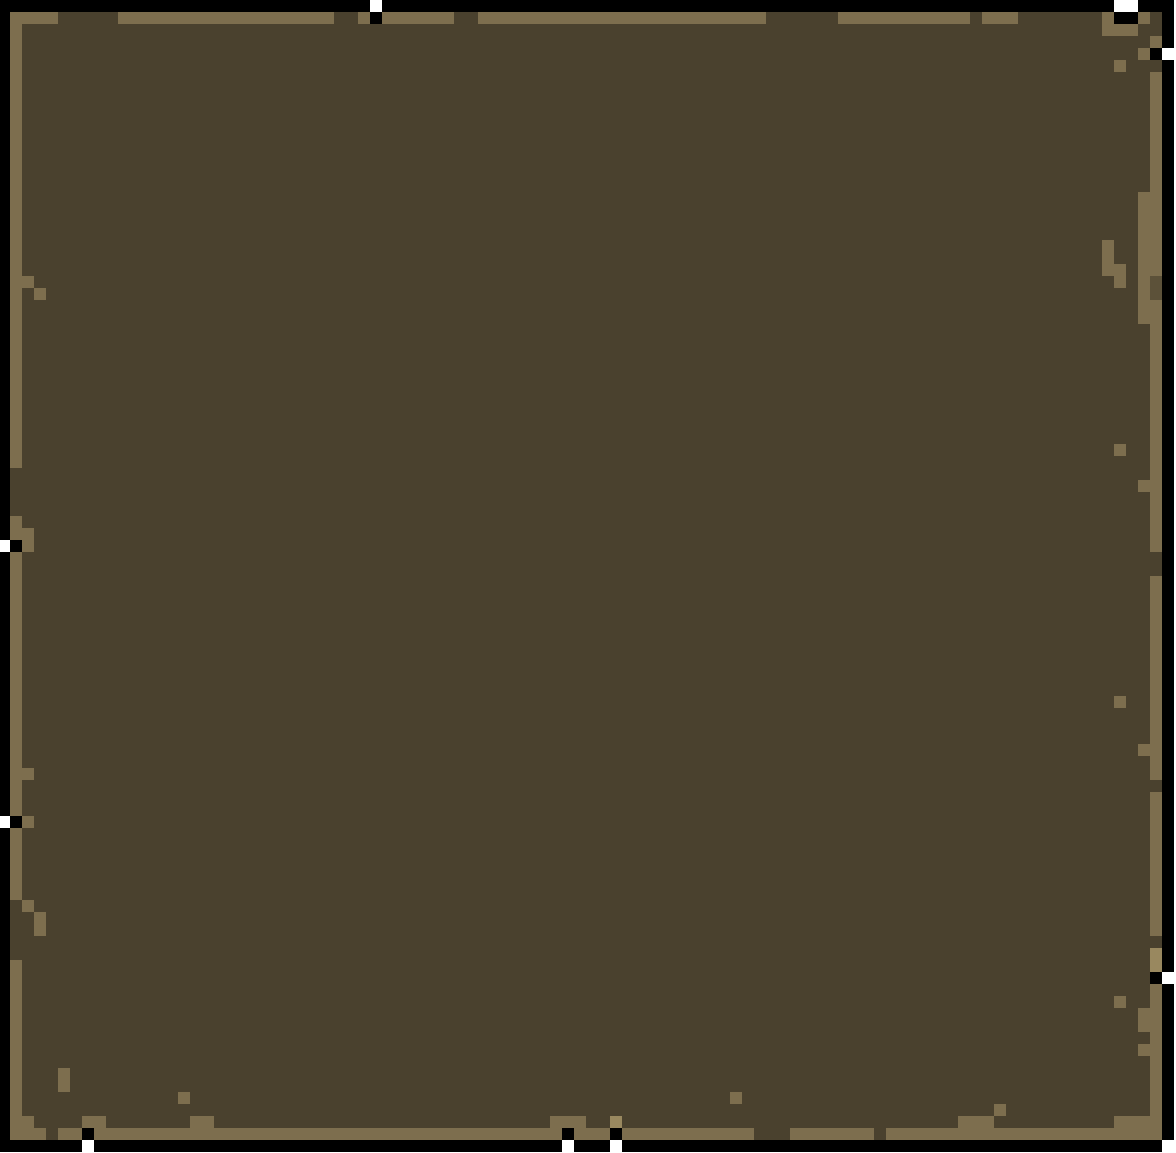
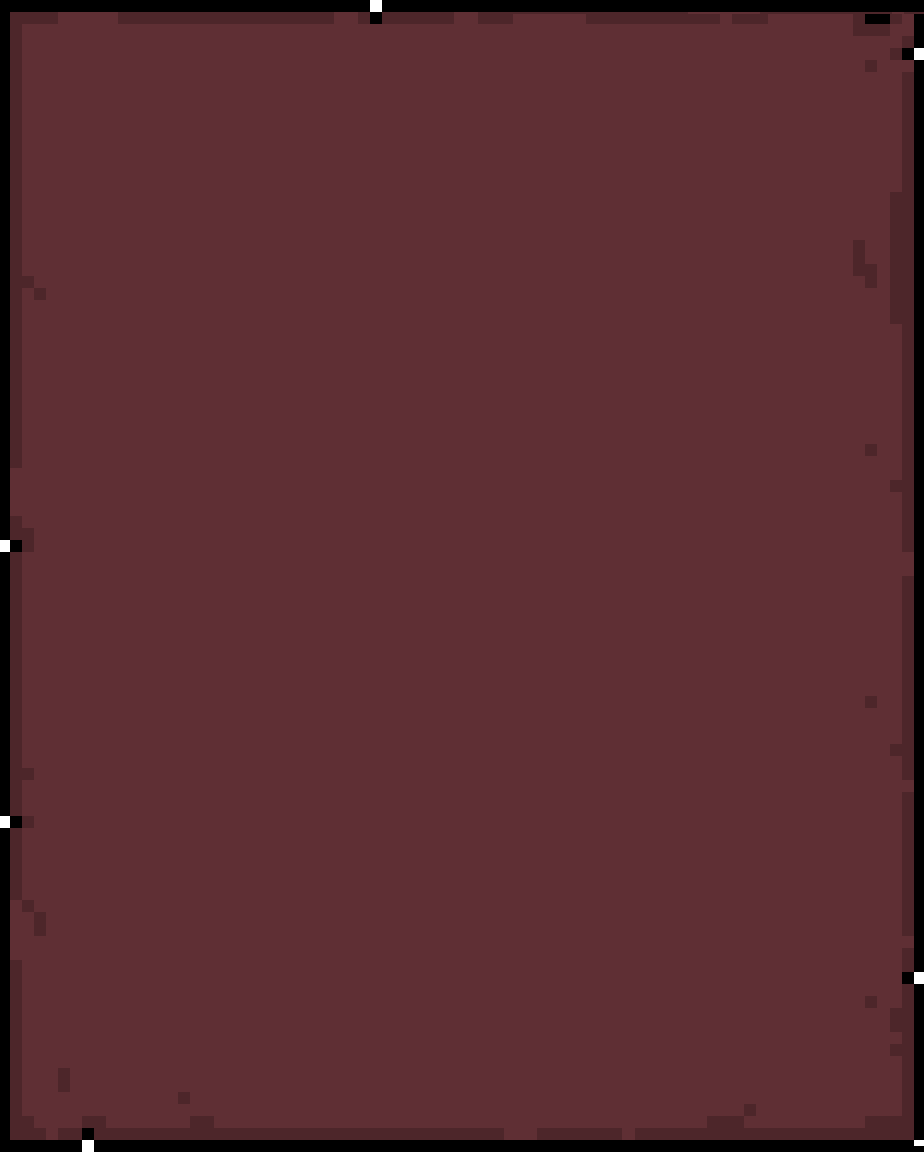
hihiha(toltolofasz)

Changed region(s): [[0.0, 0.0, 1.0, 0.9991], [0.0909, 0.0, 0.8788, 0.0312], [0.0, 0.0, 0.0606, 0.4059]]

diff --git a/login.html b/login.html
@@ -3,7 +3,11 @@
 <head>
 <meta charset="UTF-8">
 <meta name="viewport" content="width=device-width, initial-scale=1.0">
-<title>Sötét Fantasy Login</title>
+<link rel="stylesheet" href="https://cdn.jsdelivr.net/npm/bootstrap@5.3.2/dist/css/bootstrap-grid.min.css">
+<link rel="preconnect" href="https://fonts.googleapis.com">
+<link rel="preconnect" href="https://fonts.gstatic.com" crossorigin>
+<link href="https://fonts.googleapis.com/css2?family=Jacquard+12&family=Jacquard+24&display=swap" rel="stylesheet">
+<title>Az Elfeledett Oldalak</title>
 
 <!-- Ékezetbarát pixel font -->
 <link href="https://fonts.googleapis.com/css2?family=VT323&display=swap" rel="stylesheet">
@@ -20,24 +24,31 @@
         font-family: "VT323", monospace;
         image-rendering: pixelated;
         color: #e0d0c0;
+        flex-direction: column;
+    }
+    .egesz{
+        display: flex;
+        flex-direction: row;
+        align-items: center;
+    }
+
+    .konyvkep{
+       
     }
 
     .container {
         background: #1a1a1a;
         padding: 30px;
-        border: 4px solid #8A6E3E;  /* alap keret sötétebb arany */
         text-align: center;
-        width: 380px;
-        box-shadow:
-            0px 0px 0px 4px #000,
-            0px 0px 0px 8px #8A6E3E,
-            0px 0px 0px 12px #000,
-            0px 0px 20px #1a0000 inset;
+        width: 335px;
+        height: 433px;
+        background-image: url(pictures/83699ac3965fc80.png);
+        background-size: cover;
     }
 
     h2 {
         font-size: 26px;
-        color: #C69654; /* címsor világos arany */
+        color: #c6626d; /* címsor világos arany */
         margin-bottom: 25px;
         text-shadow: 2px 2px #000;
     }
@@ -46,9 +57,9 @@
         width: 90%;
         padding: 12px;
         margin: 10px 0;
-        border: 3px solid #8A6E3E; /* alap keret */
+        border: 3px solid #462226; /* alap keret */
         background: #000;
-        color: #cfcfcf;
+        color: #c6626d;
         font-family: "VT323", monospace;
         font-size: 22px;
         outline: none;
@@ -56,8 +67,8 @@
     }
 
     input:focus {
-        border-color: #C69654; /* fókusz világos arany */
-        color: #fff;
+        border-color: #5F2F34; /* fókusz világos arany */
+        color: #c6626d;
     }
 
     button {
@@ -67,15 +78,15 @@
         font-family: "VT323", monospace;
         font-size: 24px;
         cursor: pointer;
-        border: 3px solid #8A6E3E;
-        background-color: #8A6E3E; /* alap sötétebb arany */
+        border: 3px solid #5F2F34;
+        background-color: #5F2F34; /* alap sötétebb arany */
         color: #000;
         transition: 0.15s;
     }
 
     button:hover {
-        background-color: #C69654; /* hover világos arany */
-        border-color: #C69654;
+        background-color: #462226; /* hover világos arany */
+        border-color: #462226;
         color: #000;
     }
 
@@ -83,60 +94,126 @@
         margin-top: 20px;
         display: block;
         cursor: pointer;
-        color: #C69654;
+        color: #190c0d;
         font-size: 20px;
-        text-shadow: 1px 1px #000;
+        font-size: 25px;
     }
 
     .toggle:hover {
-        color: #e3b97c; /* hover világosabb */
+        color: #c6626d; /* hover világosabb */
     }
+
+
 
 </style>
 </head>
 
 <body>
+    
 
-<div class="container">
-    <h2 id="form-title">LÉPJ BE A LABIRINTUSBA</h2>
+    <div class="egesz">
+        <div class="konyvkep">
+            <img src="pictures/csukott könyv vegleges.png" alt="" style="width: 550px;">
+        </div>
 
-    <input id="username" type="text" placeholder="Felhasználónév">
-    <input id="password" type="password" placeholder="Jelszó">
+        <div class="container">
+            <h2 id="form-title">BEJELENTKEZÉS</h2>
 
-    <button id="action-btn">Belépés</button>
+            <input id="username" type="text" placeholder="Felhasználónév">
+            <input id="password" type="password" placeholder="Jelszó">
+            <input id="email" type="email" placeholder="Email cím" style="display:none;">
 
-    <span class="toggle" id="toggle-mode">Fiók létrehozása</span>
-</div>
+            <button id="action-btn">Belépés</button>
+
+            <span class="toggle" id="toggle-mode">Fiók létrehozása</span>
+        </div>
+
+    </div>
 
 <script>
 let isSignup = false;
 
 document.getElementById("toggle-mode").onclick = () => {
     isSignup = !isSignup;
+
     document.getElementById("form-title").textContent =
-        isSignup ? "ÚJ LÉLEK KOVÁCSA" : "LÉPJ BE A LABIRINTUSBA";
+        isSignup ? "REGISZTRÁCIÓ" : "LÉPJ BE A LABIRINTUSBA";
+
     document.getElementById("action-btn").textContent =
         isSignup ? "Regisztráció" : "Belépés";
+
     document.getElementById("toggle-mode").textContent =
         isSignup ? "Már van fiókod? Belépés" : "Fiók létrehozása";
+
+    document.getElementById("email").style.display =
+        isSignup ? "block" : "none";
 };
 
 document.getElementById("action-btn").onclick = () => {
     const user = document.getElementById("username").value.trim();
     const pass = document.getElementById("password").value.trim();
+    const email = document.getElementById("email").value.trim();
 
-    if (!user || !pass) {
+    if (!user || !pass || (isSignup && !email)) {
         alert("Minden mezőt ki kell töltened!");
         return;
     }
 
+    function showBookSelector() {
+    document.querySelector(".container").innerHTML = `
+        <h2>VÁLASSZ KRÓNIKÁT</h2>
+
+        <select id="bookSelect" style="
+            width:90%;
+            padding:12px;
+            font-size:22px;
+            background:#000;
+            color:#c6626d;
+            border:3px solid #462226;
+            font-family:'VT323', monospace;
+            box-shadow:2px 2px #000;
+        ">
+            <option value="">-- Válassz könyvet --</option>
+            <option value="itelet">Az Ítélet Labirintusa</option>
+            <option value="arnyak">Az Árnyak Ösvénye</option>
+            <option value="vegzet">A Végzet Lapjai</option>
+        </select>
+
+        <button id="startGameBtn" style="margin-top:25px;">
+            Játék kezdete
+        </button>
+    `;
+
+    document.getElementById("startGameBtn").onclick = () => {
+        const selected = document.getElementById("bookSelect").value;
+
+        if (!selected) {
+            alert("Válassz egy krónikát!");
+            return;
+        }
+
+        // később ebből tudod, melyik könyv töltődjön
+        localStorage.setItem("selectedBook", selected);
+
+        window.location.href = "loading.html";
+    };
+}
+
     if (isSignup) {
+        if (localStorage.getItem("user_" + user)) {
+            alert("Ez a felhasználónév már létezik!");
+            return;
+        }
+
         localStorage.setItem("user_" + user, pass);
-        alert("A lélek megkovácsolva — most már beléphetsz.");
+        localStorage.setItem("email_" + user, email);
+
+        alert("Fiókod elkészült.");
     } else {
         const savedPass = localStorage.getItem("user_" + user);
+
         if (savedPass === pass) {
-            window.location.href = "loading.html";
+            showBookSelector();
         } else {
             alert("Hibás felhasználónév vagy jelszó!");
         }

diff --git a/loading.html b/loading.html
@@ -13,7 +13,7 @@ body {
     background: #0a0a0a url('https://i.imgur.com/b5nXJzP.png');
     background-size: 256px;
     font-family: "VT323", monospace;
-    color: #C69654;
+    color: #ba5c66;
     image-rendering: pixelated;
     overflow: hidden;
 }
@@ -26,14 +26,14 @@ body {
 
 .loader-text {
     font-size: 32px;
-    text-shadow: 2px 2px #000;
+    text-shadow: 2px 2px #36191c;
     margin-bottom: 20px;
 }
 
 .loader-bar {
     width: 300px;
     height: 25px;
-    border: 3px solid #8A6E3E;
+    border: 3px solid #6a353a;
     background: #1a1a1a;
     position: relative;
     overflow: hidden;
@@ -42,7 +42,7 @@ body {
 
 .loader-fill {
     height: 100%;
-    background: #C69654;
+    background: #9b4d55;
     width: 0%;
     animation: loading 3s linear forwards;
 }
@@ -52,14 +52,14 @@ body {
     100% { width: 100%; }
 }
 
-/* Runák stílusa */
+
 .rune {
     position: absolute;
-    color: #C69654;
-    font-size: 20px;
-    text-shadow: 0 0 5px #fff;
+    color: #5F2F34;
+    font-size: 40px;
+    text-shadow: 0 0 5px #ffffff;
     opacity: 0;
-    animation: blink 1s infinite;
+    animation: blink 5s infinite;
 }
 
 @keyframes blink {
@@ -71,7 +71,9 @@ body {
 
 <body>
 <div class="loader-container">
-    <div class="loader-text">A labirintus kapui nyílnak...</div>
+    <div class="loader-text">
+        <h2>Az Elfeledett Oldalak életre kelnek.</h2>
+        <p>Az árnyak suttognak az oldalak között. <br>Olvasd… ha mered.</p></div>
     <div class="loader-bar"><div class="loader-fill"></div></div>
 </div>
 
@@ -79,7 +81,7 @@ body {
 // 3 másodperc után átirányítjuk a game.html-re
 setTimeout(() => {
     window.location.href = "game.html";
-}, 3000);
+}, 4000);
 
 // Runák létrehozása
 const runeChars = ["ᚠ","ᚢ","ᚦ","ᚨ","ᚱ","ᚲ","ᚷ","ᚹ","ᚺ","ᚾ","ᛁ","ᛃ"];

diff --git a/game.css b/game.css
@@ -1919,14 +1919,12 @@ h3{
 
 .pergamen-popup{
   width: 500px;
-  height: 600px;
+  height: 500px;
   top: 0;
   left: 0;
   position: relative;
-  background-image: url(/pictures/batcave.png);
-  background-repeat: no-repeat;
-  background-position: center;
-  background-size: cover;
+  background-image: url(/pictures/perga-removebg-preview.png);
+  background-size: 100%;
   border-radius: 15px;
 }
 

diff --git a/game.html b/game.html
@@ -8,7 +8,7 @@
     <link rel="preconnect" href="https://fonts.gstatic.com" crossorigin>
     <link href="https://fonts.googleapis.com/css2?family=Jacquard+12&family=Jacquard+24&display=swap" rel="stylesheet">
     <link rel="stylesheet" href="game.css">
-    <title>Az ítélet labirintusa</title>
+    <title>Az Elfeledett Oldalak</title>
 </head>
 <body>
     <div class="col-md-12 fejlec">
